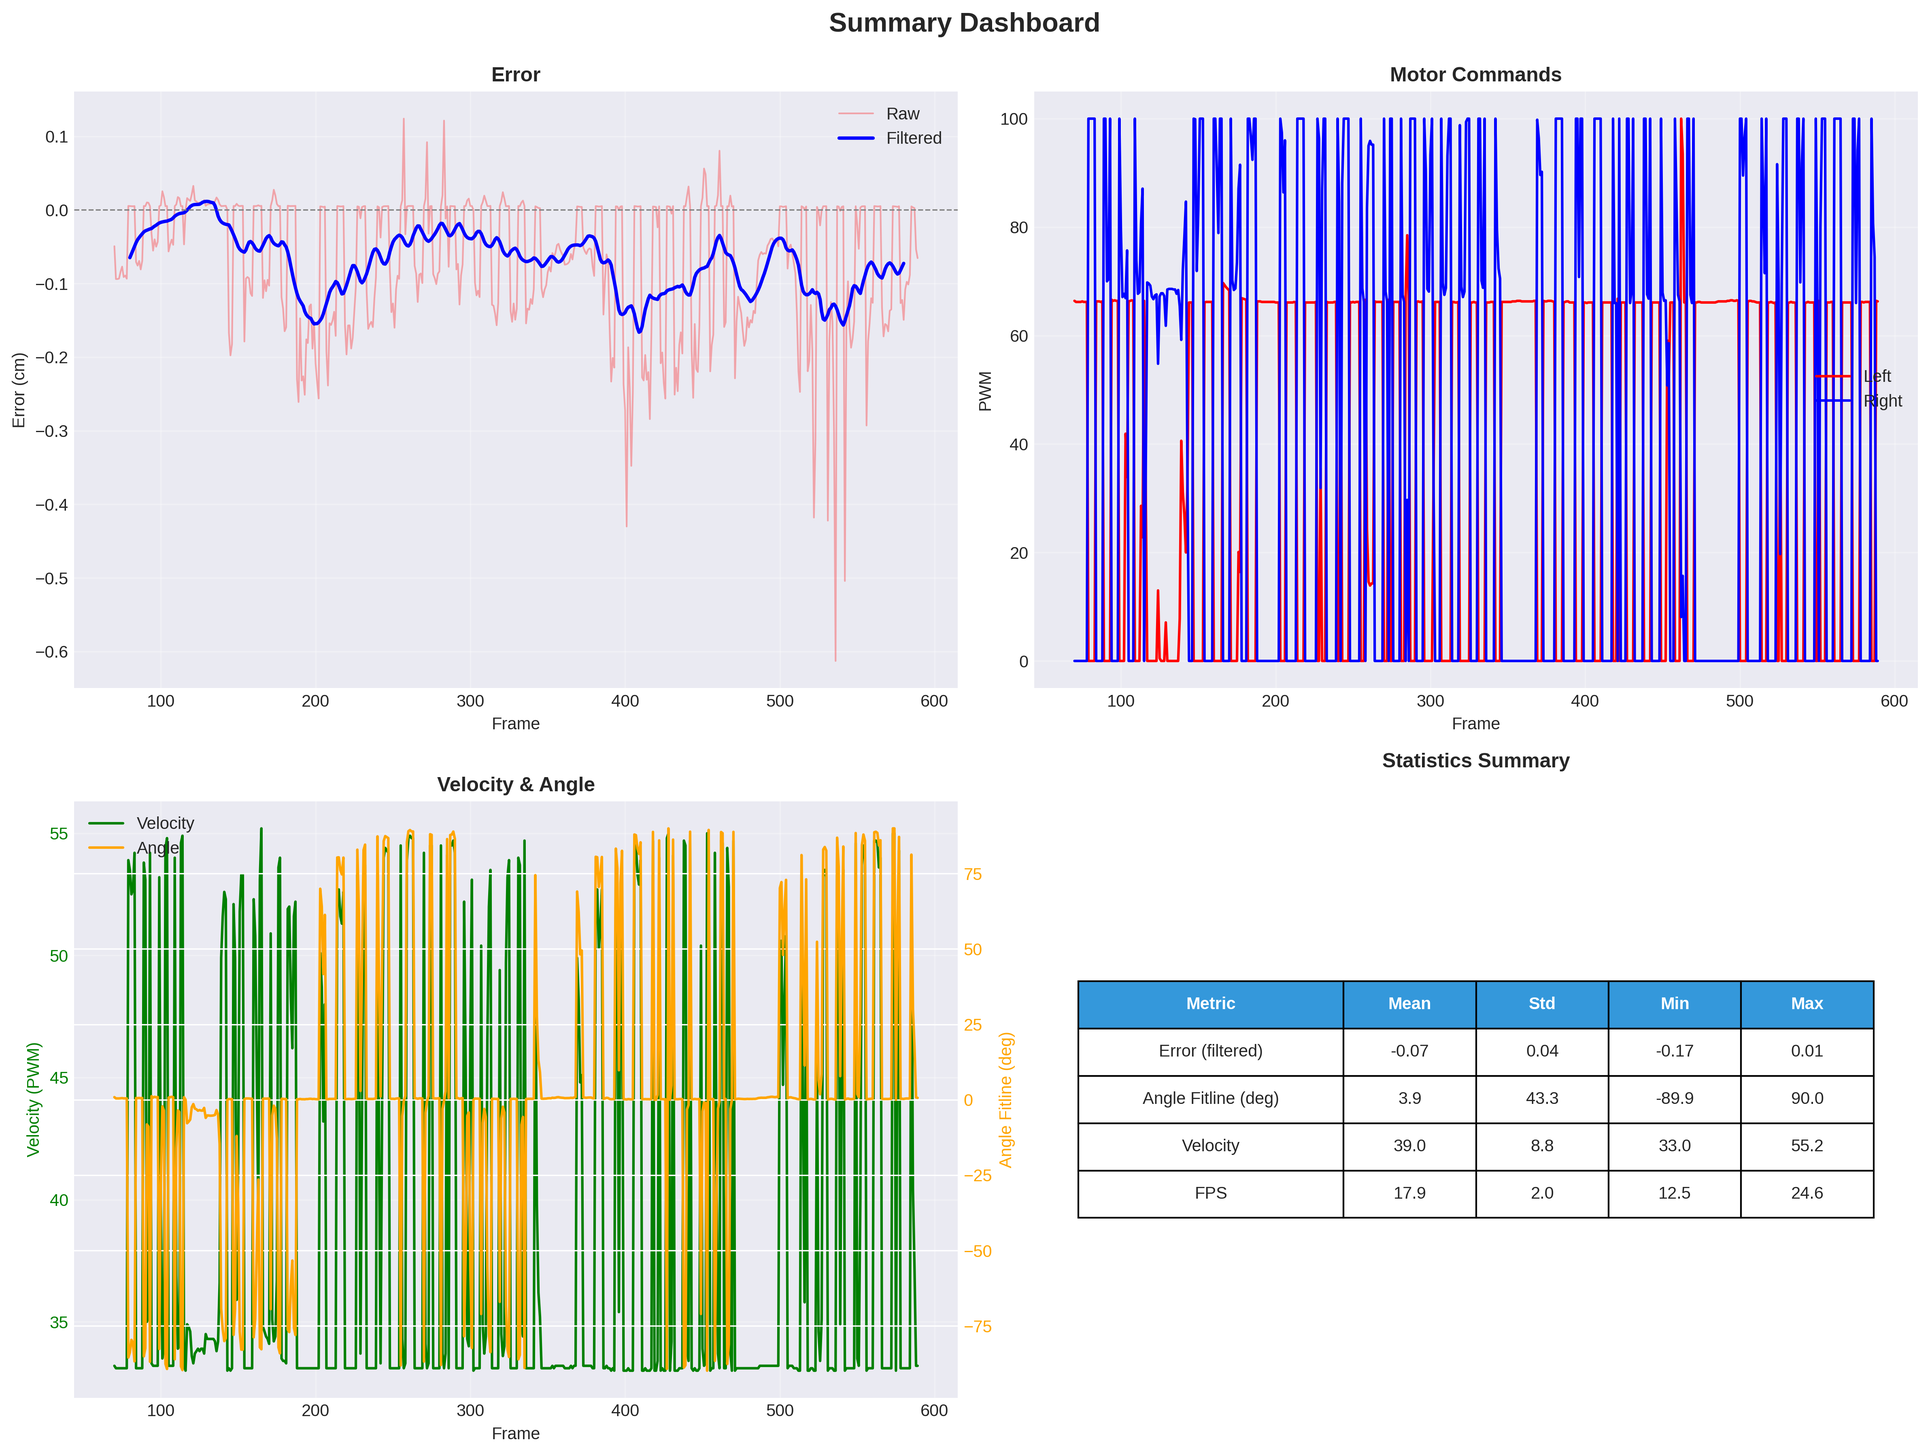
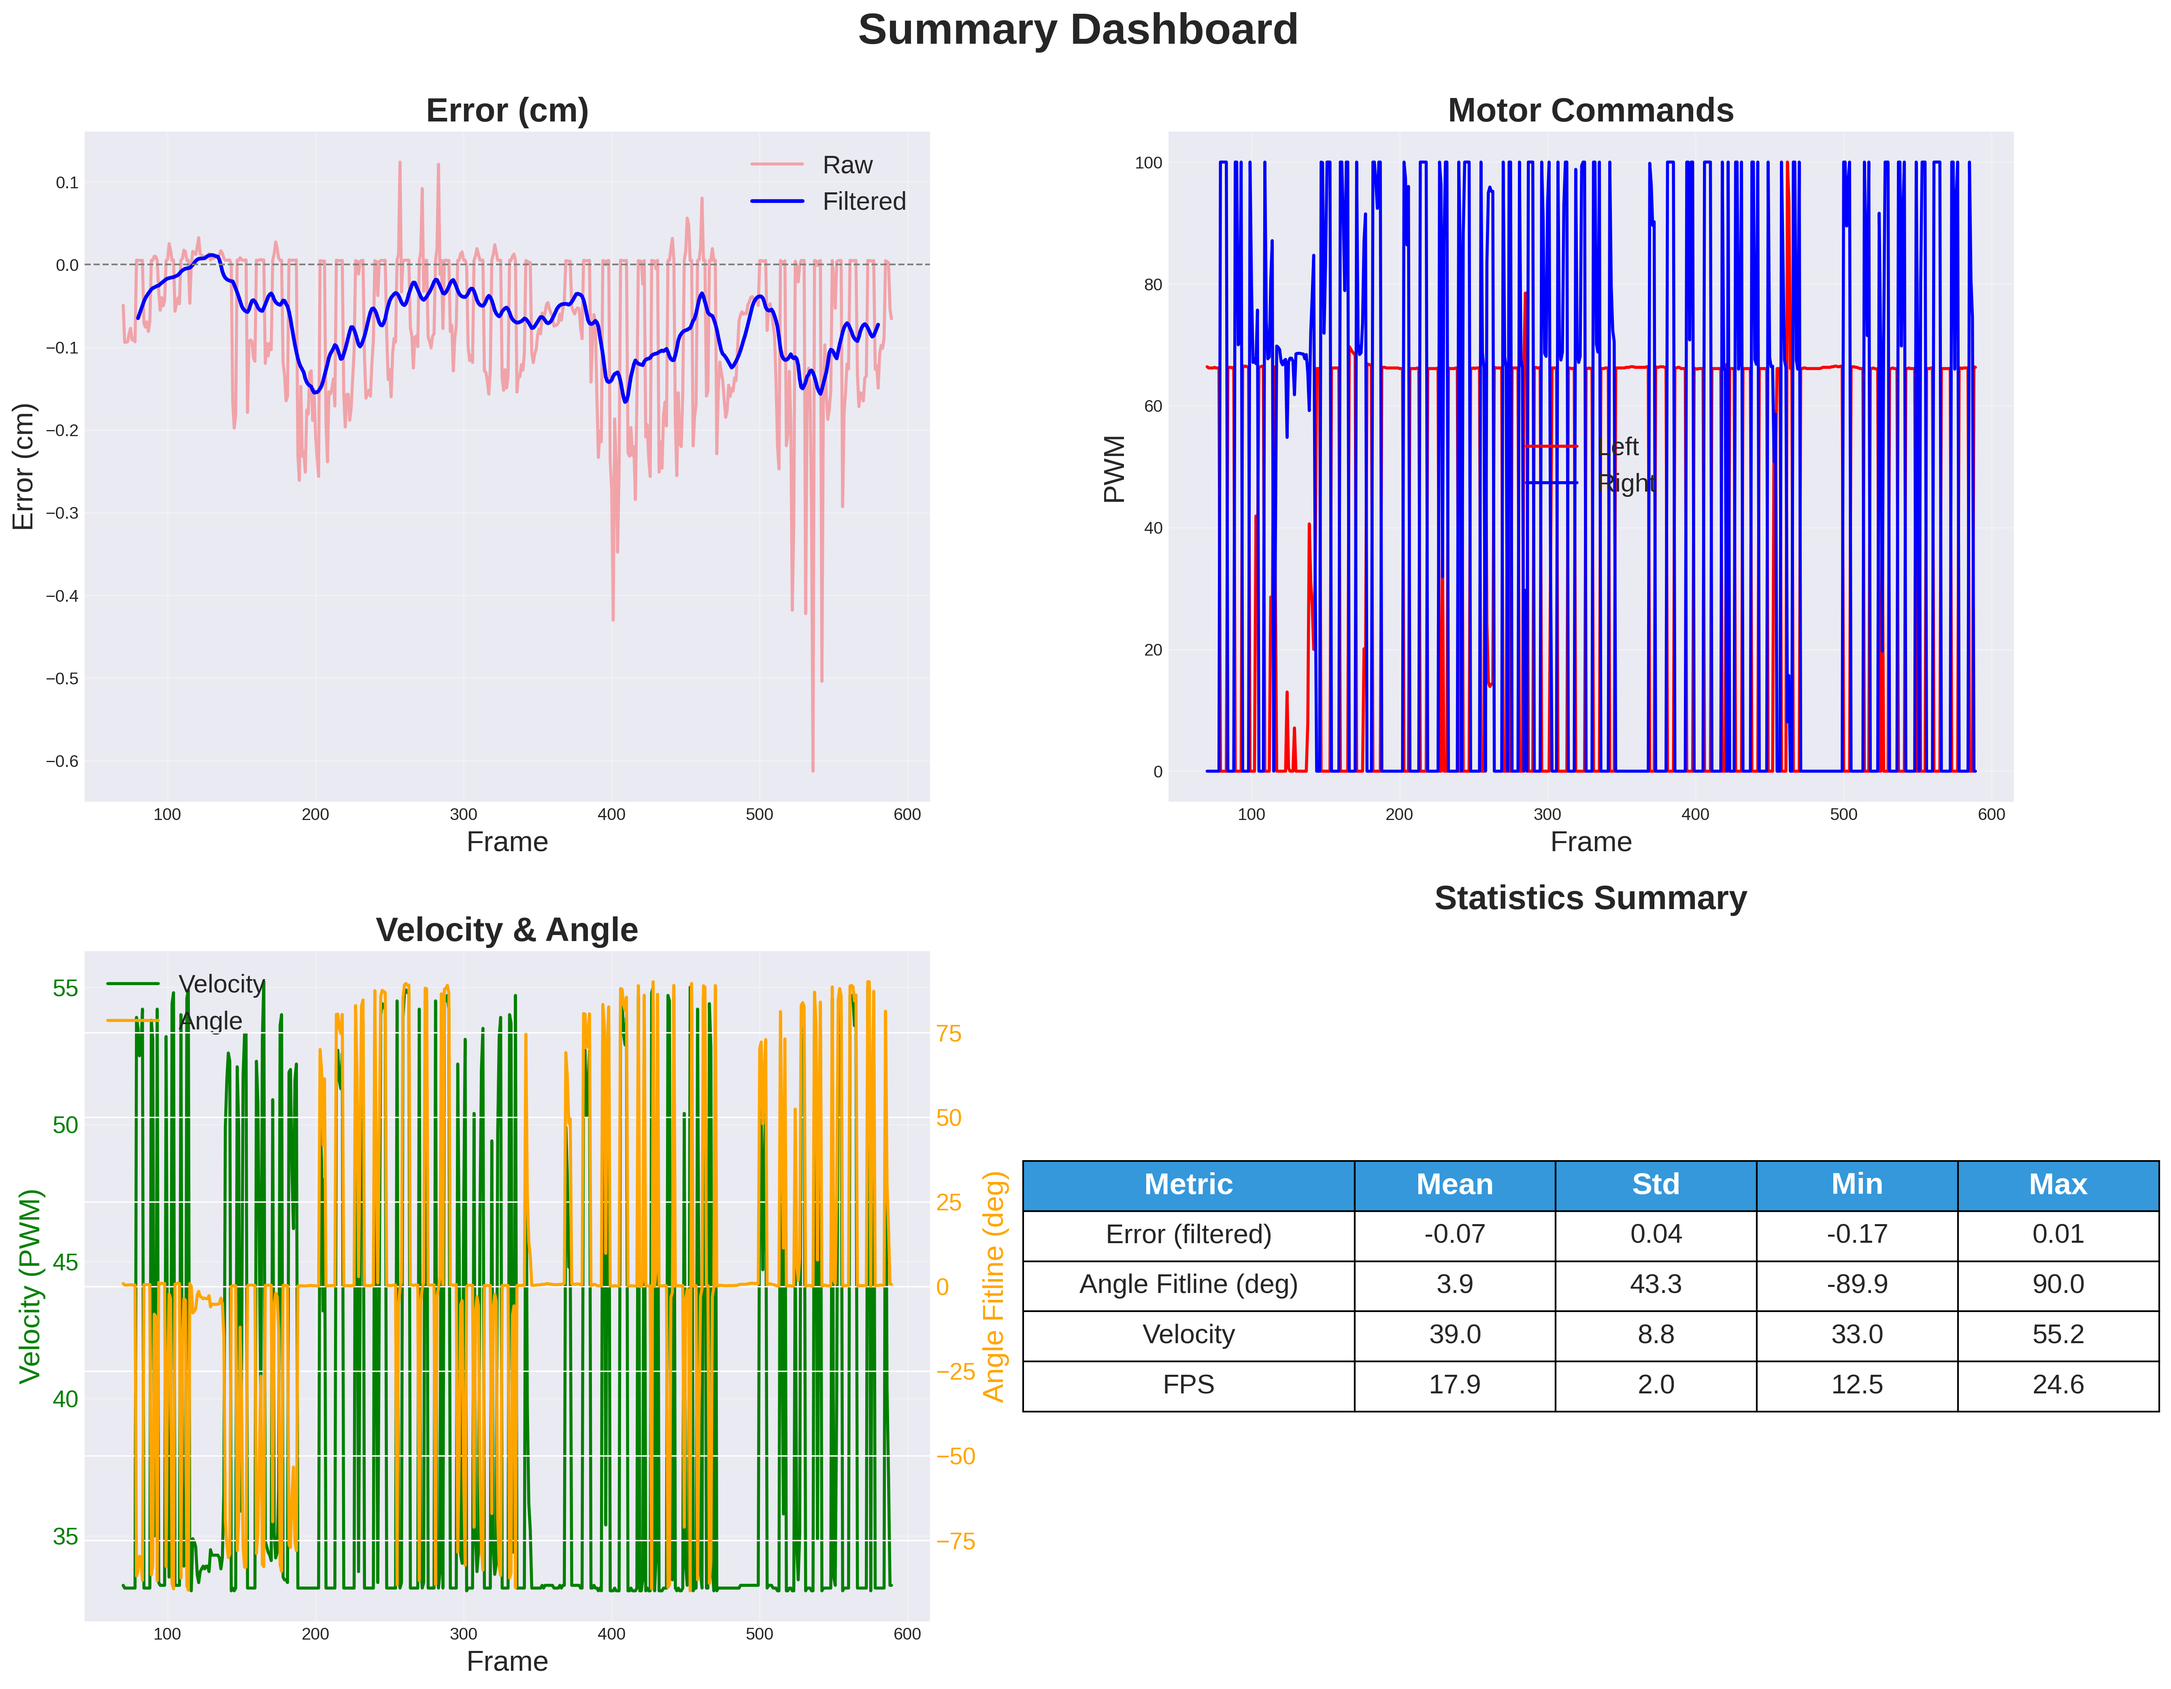
fixed readme gifs

diff --git a/src/data_utils/rus_analyze.py b/src/data_utils/rus_analyze.py
@@ -310,97 +310,110 @@ def visualize_telemetry(csv_path, output_dir="./plots", max_frames=1400, window_
 #     print("✓ dashboard.png сохранён")
 
 
-
     # === 9. СВОДНАЯ СТАТИСТИКА === #
-    fig, axes = plt.subplots(2, 2, figsize=(16, 12))
-    fig.suptitle('Summary Dashboard', fontsize=16, fontweight='bold', y=0.995)
-    
+    fig, axes = plt.subplots(2, 2, figsize=(18, 14))
+
+    # Большой заголовок
+    fig.suptitle('Summary Dashboard', fontsize=26, fontweight='bold', y=0.995)
+
+    # Глобальный размер шрифта
+    plt.rcParams.update({
+        'font.size': 14,
+        'axes.titlesize': 20,
+        'axes.labelsize': 16,
+        'legend.fontsize': 14,
+        'xtick.labelsize': 14,
+        'ytick.labelsize': 14
+    })
+
     # 9.1 Ошибка
-    
-    axes[0, 0].plot(df['frame'], df['E_raw_cm'], 'r-', alpha=0.3, linewidth=1, label='Raw')
-    axes[0, 0].plot(df['frame'], roll_fil, 'b-', linewidth=2, label='Filtered')
-    axes[0, 0].axhline(0, color='gray', linestyle='--', linewidth=0.8)
-    axes[0, 0].set_title('Error', fontweight='bold')
-    axes[0, 0].set_xlabel('Frame')
-    axes[0, 0].set_ylabel('Error (cm)')
-    axes[0, 0].legend()
+    axes[0, 0].plot(df['frame'], df['E_raw_cm'], 'r-', alpha=0.3, linewidth=1.8, label='Raw')
+    axes[0, 0].plot(df['frame'], roll_fil, 'b-', linewidth=2.2, label='Filtered')
+    axes[0, 0].axhline(0, color='gray', linestyle='--', linewidth=1)
+
+    axes[0, 0].set_title('Error (cm)', fontweight='bold', fontsize=20)
+    axes[0, 0].set_xlabel('Frame', fontsize=17)
+    axes[0, 0].set_ylabel('Error (cm)', fontsize=17)
+    axes[0, 0].legend(fontsize=15)
     axes[0, 0].grid(True, alpha=0.3)
-    
-    # 9.2 Моторы
-    axes[0, 1].plot(df['frame'], df['left_cmd'], 'r-', linewidth=1.5, label='Left')
-    axes[0, 1].plot(df['frame'], df['right_cmd'], 'b-', linewidth=1.5, label='Right')
-    axes[0, 1].set_title('Motor Commands', fontweight='bold')
-    axes[0, 1].set_xlabel('Frame')
-    axes[0, 1].set_ylabel('PWM')
-    axes[0, 1].legend()
+
+    # 9.2 Motor Commands
+    axes[0, 1].plot(df['frame'], df['left_cmd'], 'r-', linewidth=1.8, label='Left')
+    axes[0, 1].plot(df['frame'], df['right_cmd'], 'b-', linewidth=1.8, label='Right')
+
+    axes[0, 1].set_title('Motor Commands', fontweight='bold', fontsize=20)
+    axes[0, 1].set_xlabel('Frame', fontsize=17)
+    axes[0, 1].set_ylabel('PWM', fontsize=17)
+    axes[0, 1].legend(fontsize=15)
     axes[0, 1].grid(True, alpha=0.3)
-    
+
     # 9.3 Скорость + Угол
     ax1 = axes[1, 0]
     ax2 = ax1.twinx()
-    
-    line1 = ax1.plot(df['frame'], df['v'], 'g-', linewidth=1.5, label='Velocity')
-    line2 = ax2.plot(df['frame'], df['angle_deg'], 'orange', linewidth=1.5, label='Angle')
-    
-    ax1.set_xlabel('Frame')
-    ax1.set_ylabel('Velocity (PWM)', color='g')
-    ax2.set_ylabel('Angle Fitline (deg)', color='orange')
-    ax1.tick_params(axis='y', labelcolor='g')
-    ax2.tick_params(axis='y', labelcolor='orange')
-    
+
+    line1 = ax1.plot(df['frame'], df['v'], 'g-', linewidth=1.8, label='Velocity')
+    line2 = ax2.plot(df['frame'], df['angle_deg'], 'orange', linewidth=1.8, label='Angle')
+
+    ax1.set_xlabel('Frame', fontsize=17)
+    ax1.set_ylabel('Velocity (PWM)', color='g', fontsize=17)
+    ax2.set_ylabel('Angle Fitline (deg)', color='orange', fontsize=17)
+
+    ax1.tick_params(axis='y', labelcolor='g', labelsize=14)
+    ax2.tick_params(axis='y', labelcolor='orange', labelsize=14)
+
     lines = line1 + line2
     labels = [l.get_label() for l in lines]
-    ax1.legend(lines, labels, loc='upper left')
-    ax1.set_title('Velocity & Angle', fontweight='bold')
+    ax1.legend(lines, labels, loc='upper left', fontsize=15)
+
+    ax1.set_title('Velocity & Angle', fontweight='bold', fontsize=20)
     ax1.grid(True, alpha=0.3)
 
-    # 9.4 Статистика (таблица)
+    # 9.4 Таблица статистики
     axes[1, 1].axis('off')
-    
+
     stats_data = [
         ['Metric', 'Mean', 'Std', 'Min', 'Max'],
         ['Error (filtered)', f'{roll_fil.mean():.2f}',
-                       f'{roll_fil.std():.2f}',
-                       f'{roll_fil.min():.2f}',
-                       f'{roll_fil.max():.2f}'],
-        ['Angle Fitline (deg)', f'{df["angle_deg"].mean():.1f}', 
-         f'{df["angle_deg"].std():.1f}', 
-         f'{df["angle_deg"].min():.1f}', 
-         f'{df["angle_deg"].max():.1f}'],
-        ['Velocity', f'{df["v"].mean():.1f}', 
-         f'{df["v"].std():.1f}', 
-         f'{df["v"].min():.1f}', 
-         f'{df["v"].max():.1f}'],
-        ['FPS', f'{df["fps"].mean():.1f}', 
-         f'{df["fps"].std():.1f}', 
-         f'{df["fps"].min():.1f}', 
-         f'{df["fps"].max():.1f}'],
+                            f'{roll_fil.std():.2f}',
+                            f'{roll_fil.min():.2f}',
+                            f'{roll_fil.max():.2f}'],
+        ['Angle Fitline (deg)', f'{df["angle_deg"].mean():.1f}',
+                            f'{df["angle_deg"].std():.1f}',
+                            f'{df["angle_deg"].min():.1f}',
+                            f'{df["angle_deg"].max():.1f}'],
+        ['Velocity', f'{df["v"].mean():.1f}',
+                    f'{df["v"].std():.1f}',
+                    f'{df["v"].min():.1f}',
+                    f'{df["v"].max():.1f}'],
+        ['FPS', f'{df["fps"].mean():.1f}',
+                f'{df["fps"].std():.1f}',
+                f'{df["fps"].min():.1f}',
+                f'{df["fps"].max():.1f}'],
     ]
-    
-    table = axes[1, 1].table(cellText=stats_data, cellLoc='center', loc='center',
-                              colWidths=[0.3, 0.15, 0.15, 0.15, 0.15])
+
+    # Увеличенная таблица
+    table = axes[1, 1].table(
+        cellText=stats_data,
+        cellLoc='center',
+        loc='center',
+        colWidths=[0.28, 0.17, 0.17, 0.17, 0.17]
+    )
+
     table.auto_set_font_size(False)
-    table.set_fontsize(10)
-    table.scale(1, 2)
-    
-    # Заголовок таблицы
+    table.set_fontsize(16)       # ← Шрифт таблицы увеличен
+    table.scale(1.4, 2.2)        # ← Высота увеличена
+
+    # Заголовки таблицы
     for i in range(5):
         table[(0, i)].set_facecolor('#3498db')
-        table[(0, i)].set_text_props(weight='bold', color='white')
-    
-    axes[1, 1].set_title('Statistics Summary', fontweight='bold', pad=20)
-    
+        table[(0, i)].set_text_props(weight='bold', color='white', fontsize=18)
+
+    axes[1, 1].set_title('Statistics Summary', fontweight='bold', fontsize=20, pad=25)
+
     plt.tight_layout()
     plt.savefig(output_dir / 'summary_dashboard.png', dpi=300, bbox_inches='tight')
     plt.close()
     print("✓ Saved: summary_dashboard.png")
-    # ================
-    #   Итог
-    # ================
-    print("\n=== TELEMETRY SUMMARY ===")
-    print(f"Кадров: {len(df)}")
-    print(f"Средний FPS: {df['fps'].mean():.1f}")
-    print("=========================\n")
 
 
 if __name__ == "__main__":

diff --git a/README.md b/README.md
@@ -86,33 +86,11 @@ We support two YOLOv8-seg model formats:
 | Backend            | Time per frame | FPS          | Notes                              |
 | ------------------ | -------------- | ------------ | ---------------------------------- |
 | **TFLite Float16** | **124.17 ms**  | **8.1 FPS**  | Slow postprocess, good portability |
-| **OpenVINO FP16**  | **46.14 ms**   | **21.7 FPS** | ⚡ FASTEST, recommended             |
+| **OpenVINO FP16**  | **46.14 ms**   | **21.7 FPS** | fastest than tflite, recommended   |
+| **OpenCV Momentums | **3.13 ms**   | **55.8 FPS (max 120)** | FASTEST, not robust       |
 
 To convert pth to tflite, find a guide here: src/convertation/steps.md
 One script is used to convert openvino: src/convertation/openvino_convertation.py
-
-### ✔ Why OpenVINO is faster?
-
-* Optimized linear algebra
-* Batch-friendly GEMM kernels
-* Fast sigmoid/mask reconstruction
-* Multithreading even on CPU
-* Efficient FP16 support
-
-**Conclusion: use OpenVINO for real robot driving**
-
----
-
-# 📸 Demo Results (demo/)
-
-
-```
-demo/
-├── openvino_result.jpg       # mask overlay from OpenVINO
-├── tflite_result.jpg         # mask overlay from TFLite
-├── driving_demo.gif          # optional driving animation
-└── mask_overlay_example.png
-```
 
 ---
 
@@ -131,7 +109,7 @@ demo/
 ### Use YOLOv8 Segmentation (default)
 
 ```bash
-python3 src/main.py
+python3 src/fast_control.py
 ```
 Change the opencv mode in the src/controller.py
 
